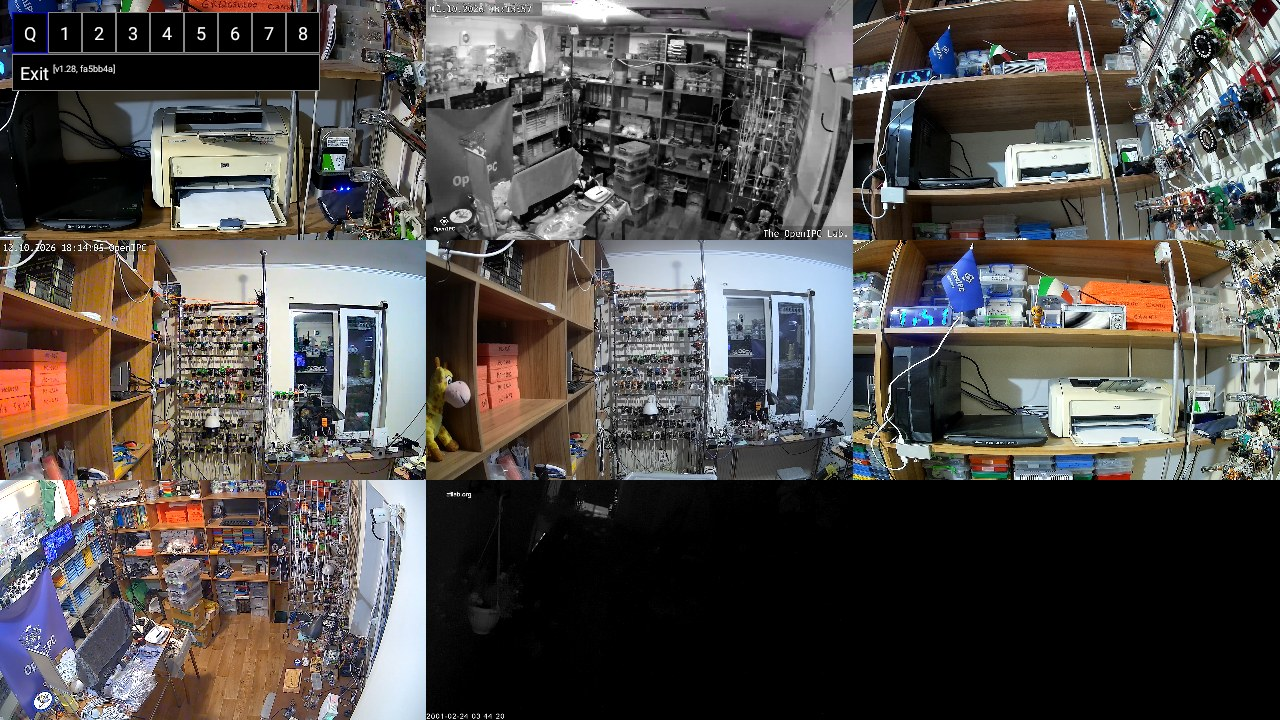
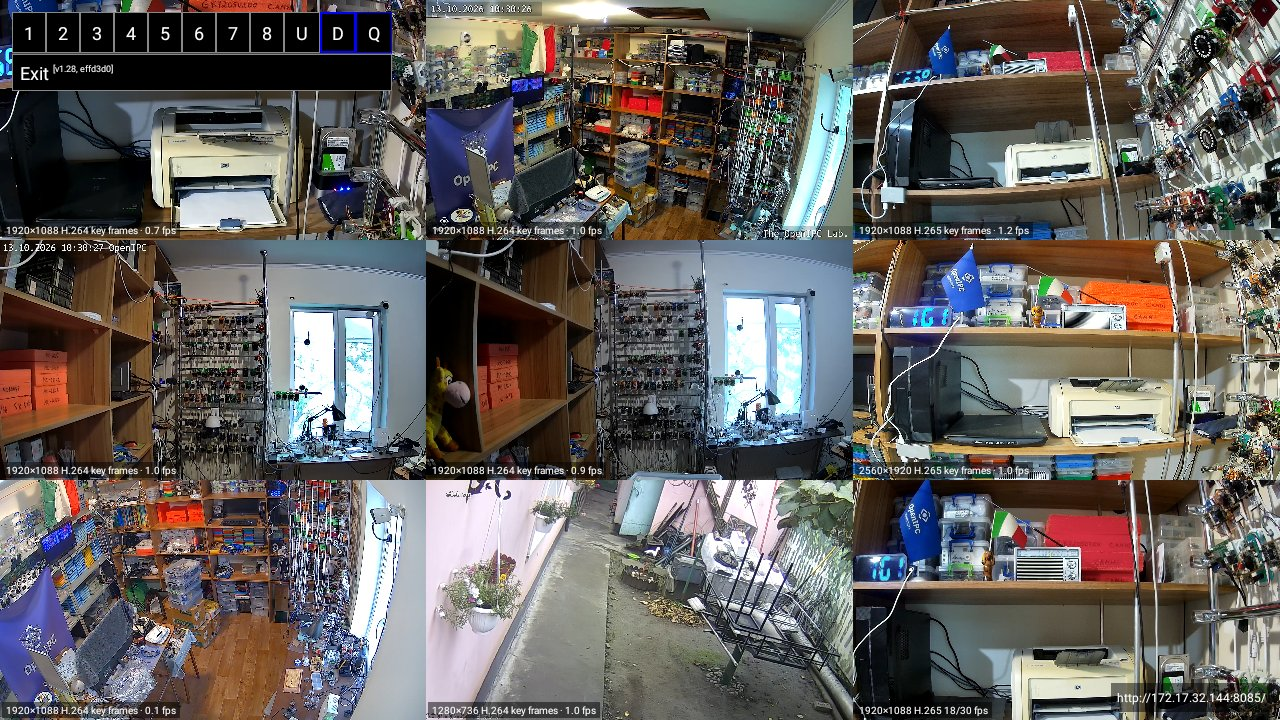
docs: fresh README screenshots — 3×3 with the U cell and the new menu row; debug page, JSON and log

diff --git a/README.ru.md b/README.ru.md
@@ -136,6 +136,12 @@ outgoing:
 
 Отвечает только клиентам из локальной сети (loopback, 10/8, 172.16/12, 192.168/16, link-local, IPv6 fc00::/7), остальным — 403. Логины и пароли не показываются.
 
+<p align="center">
+  <img src="screenshots/debug_page.jpg" alt="Отладочная страница: снимок с текстом каждой ячейки" width="640"><br>
+  <img src="screenshots/debug_json.png" alt="/stats.json" width="318">
+  <img src="screenshots/debug_log.png" alt="/log" width="318">
+</p>
+
 ## Известные ограничения
 
 > [!IMPORTANT]

diff --git a/README.md b/README.md
@@ -136,6 +136,12 @@ While the app runs it serves its debug information over HTTP on port **8085**, f
 
 Only clients on the local network are answered (loopback, 10/8, 172.16/12, 192.168/16, link-local, IPv6 fc00::/7); others get 403. Logins and passwords are never shown.
 
+<p align="center">
+  <img src="screenshots/debug_page.jpg" alt="Debug page: snapshot with each cell's text" width="640"><br>
+  <img src="screenshots/debug_json.png" alt="/stats.json" width="318">
+  <img src="screenshots/debug_log.png" alt="/log" width="318">
+</p>
+
 ## Known limitations
 
 > [!IMPORTANT]

diff --git a/README.zh-CN.md b/README.zh-CN.md
@@ -136,6 +136,12 @@ outgoing:
 
 仅响应本地网络中的客户端（loopback、10/8、172.16/12、192.168/16、链路本地地址、IPv6 fc00::/7），其他地址返回 403。不会显示用户名和密码。
 
+<p align="center">
+  <img src="screenshots/debug_page.jpg" alt="调试页面：快照及每个画面的文字" width="640"><br>
+  <img src="screenshots/debug_json.png" alt="/stats.json" width="318">
+  <img src="screenshots/debug_log.png" alt="/log" width="318">
+</p>
+
 ## 已知限制
 
 > [!IMPORTANT]
